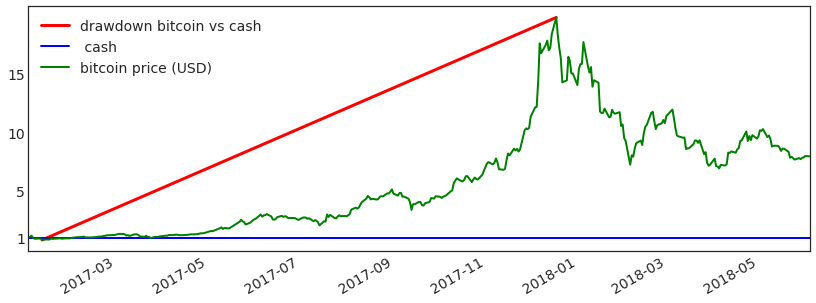
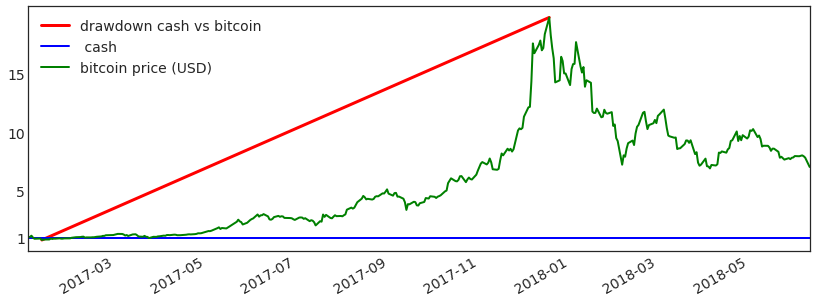
correcting typos

diff --git a/methodology.md b/methodology.md
@@ -6,14 +6,15 @@ permalink: /methodology/
 CRC Portfolio Indices are reference portfolios that crypto-investors 
 can use to gain upside exposure to crypto-currencies, while maintaining robust downside
 protection. The core methodology, [Minmax Drawdown Control](https://ssrn.com/abstract=3179215) provides a robust adaptive 
-solution to the classical [Markowitz (1952)](https://doi.org/10.1111/j.1540-6261.1952.tb01525.x) portfolio allocation problem when underlying 
+solution to the classical [Markowitz (1952)](https://doi.org/10.1111/j
+.1540-6261.1952.tb01525.x) portfolio-allocation problem when underlying 
 assets have very little history, or when market dynamics 
-change so that the past no longer predicts the future. For reference, see
+change, so that the past no longer predicts the future. For reference, see
 {: style="width:95%;text-align:justify"}
 
 
 - [Mostly Prior-Free Asset Allocation](https://www.risk.net/journal-of-risk/5416616/mostly-prior-free-asset-allocation), S. Chassang, 
-  *Journal of Risk*, 2018
+  *Journal of Risk*, 2018,
 - [Managing a Crypto-Currency Portfolio via Minmax Drawdown Control](https://ssrn.com/abstract=3179215), S. Chassang and A. Wang, 2018.
 {: style="width:95%;text-align:justify"}
 
@@ -22,14 +23,15 @@ change so that the past no longer predicts the future. For reference, see
  
 Drawdowns are an important performance metric for asset allocation strategies, along 
 with Sharpe ratios and volatility. The drawdown of a portfolio <i>relative to a 
-reference asset</i> is the worst underperformance of the portfolio against the reference asset over any arbitrary 
-window of time. 
+reference asset</i> is the underperformance of the portfolio against 
+the reference asset, over the worst possible window of time. 
 {: style="width:95%;text-align:justify"}
 
   
 Figure 1 plots the drawdown of a portfolio invested 100% in bitcoin against cash 
 between January 2017 and June 2018. The worst time window for the bitcoin portfolio is December 18th 2017 to April 5th 2018. 
-Over that time period, bitcoin lost 65% of its value against cash: this is the drawdown of cash against bitcoin.
+Over that time period, bitcoin lost 65% of its value against cash: this is 
+the drawdown of bitcoin against cash.
 {: style="width:95%;text-align:justify"}
 
 {% include image.html url="images/dd_btc_vs_cash.png" caption="Figure 1: drawdown of 
@@ -49,8 +51,9 @@ against bitcoin." align="center" %}
 
 [Chassang (2018)](https://www.risk.net/journal-of-risk/5416616/mostly-prior-free-asset-allocation) 
 and [Chassang and Wang (2018)](https://ssrn.com/abstract=3179215) establish that:
- 1. The optimal asset allocation strategy constructed by an investor who correctly understands 
- the risks of underlying assets will experience low drawdowns with large probability.
+ 1. If an investor correctly understands 
+ the risks of underlying assets their optimally chosen portfolio will 
+ experience low drawdowns with large probability.
  1. It is possible to construct portfolio allocation strategies that guarantee low drawdowns 
  for most market configurations. Among these, Minmax Drawdown Control strategies provide the 
  best robust compromise between drawdowns against the safe asset and drawdowns against
@@ -59,15 +62,14 @@ and [Chassang and Wang (2018)](https://ssrn.com/abstract=3179215) establish that
 {: style="width:95%;text-align:justify"}
 
 In other terms, an investor whose portfolio experiences large drawdowns is being mistakenly stubborn
-and making avoidable investment mistakes. It turns out that controlling drawdowns also improve Sharpe ratios: the minmax drawdown portfolio 
-exhibits a Sharpe ratio of 6.97, versus a Sharpe ratio of 4.82 for bitcoin.
+and making avoidable investment mistakes. 
 {: style="width:95%;text-align:justify"}
 
 
 Figure 3 illustrates the behavior of a drawdown controlled portfolio
 investing in bitcoin and cash. It achieves a drawdown of 38% against bitcoin, 
 and a drawdown of 41% against cash. It turns out that controlling drawdowns 
-improves Sharpe ratios: the minmax drawdown portfolio 
+improves the portfolio's Sharpe ratio: the minmax drawdown portfolio 
 exhibits a Sharpe ratio of 6.97, versus a Sharpe ratio of 4.82 for bitcoin.
 {: style="width:95%;text-align:justify"}
 
@@ -76,4 +78,6 @@ minmax drawdown portfolio against bitcoin and cash." align="center" %}
 <br/>
 
 Crypto Risk Control Indices apply the Minmax Drawdown Control framework to 
-different subsets of volatility-adjusted crypto-currencies.
+different subsets of volatility-adjusted crypto-currencies. So far our 
+flagship index, CRC3 invests in the three highest market cap crypto-currencies.
+We will introduce other indices in the coming months.
